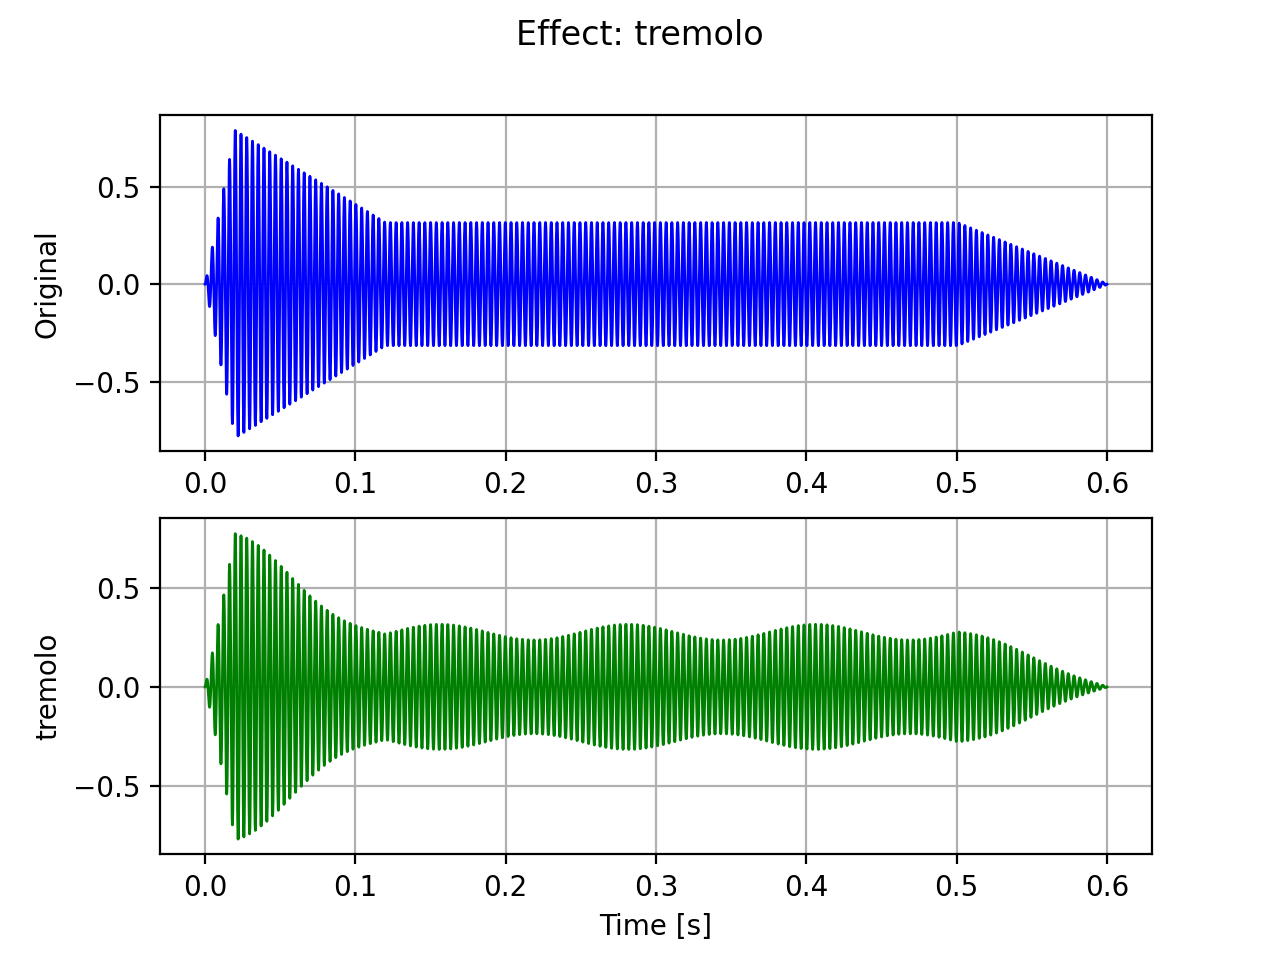
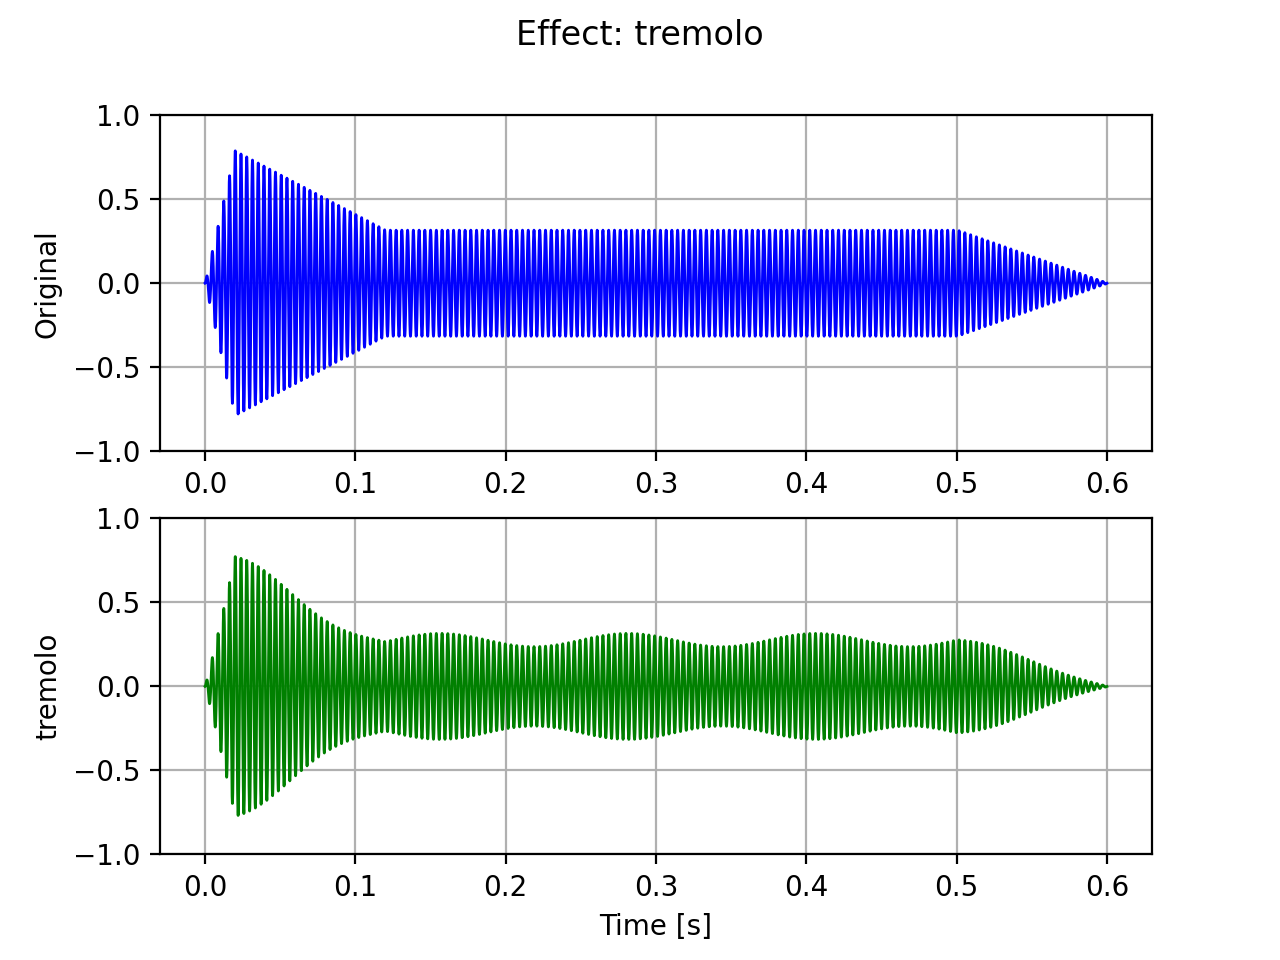
Plots for effects now have fixed y axis [-1, 1]

diff --git a/scripts/plot-effect.py b/scripts/plot-effect.py
@@ -33,14 +33,17 @@ ir = int(SAMPLING_FREQ*0.6)
 lwidth = 1.0
 
 fig, (ax1, ax2) = plt.subplots(2, 1)
-ax1.plot(t[il:ir], data_orig[il:ir], linewidth=lwidth, c='blue', label='Original')
-ax2.plot(t[il:ir], data_effe[il:ir], linewidth=lwidth, c='green', label=effect_name)
-
 fig.suptitle(f'Effect: {effect_name}')
-ax2.set_xlabel('Time [s]')
+
+ax1.plot(t[il:ir], data_orig[il:ir], linewidth=lwidth, c='blue', label='Original')
+ax1.set_ylim(-1, 1)
 ax1.set_ylabel('Original')
-ax2.set_ylabel(effect_name)
 ax1.grid()
+
+ax2.plot(t[il:ir], data_effe[il:ir], linewidth=lwidth, c='green', label=effect_name)
+ax2.set_ylim(-1, 1)
+ax2.set_xlabel('Time [s]')
+ax2.set_ylabel(effect_name)
 ax2.grid()
 
 plt.savefig(f'{WORKDIR}/img/effect-{effect_name}.png', dpi=200)
